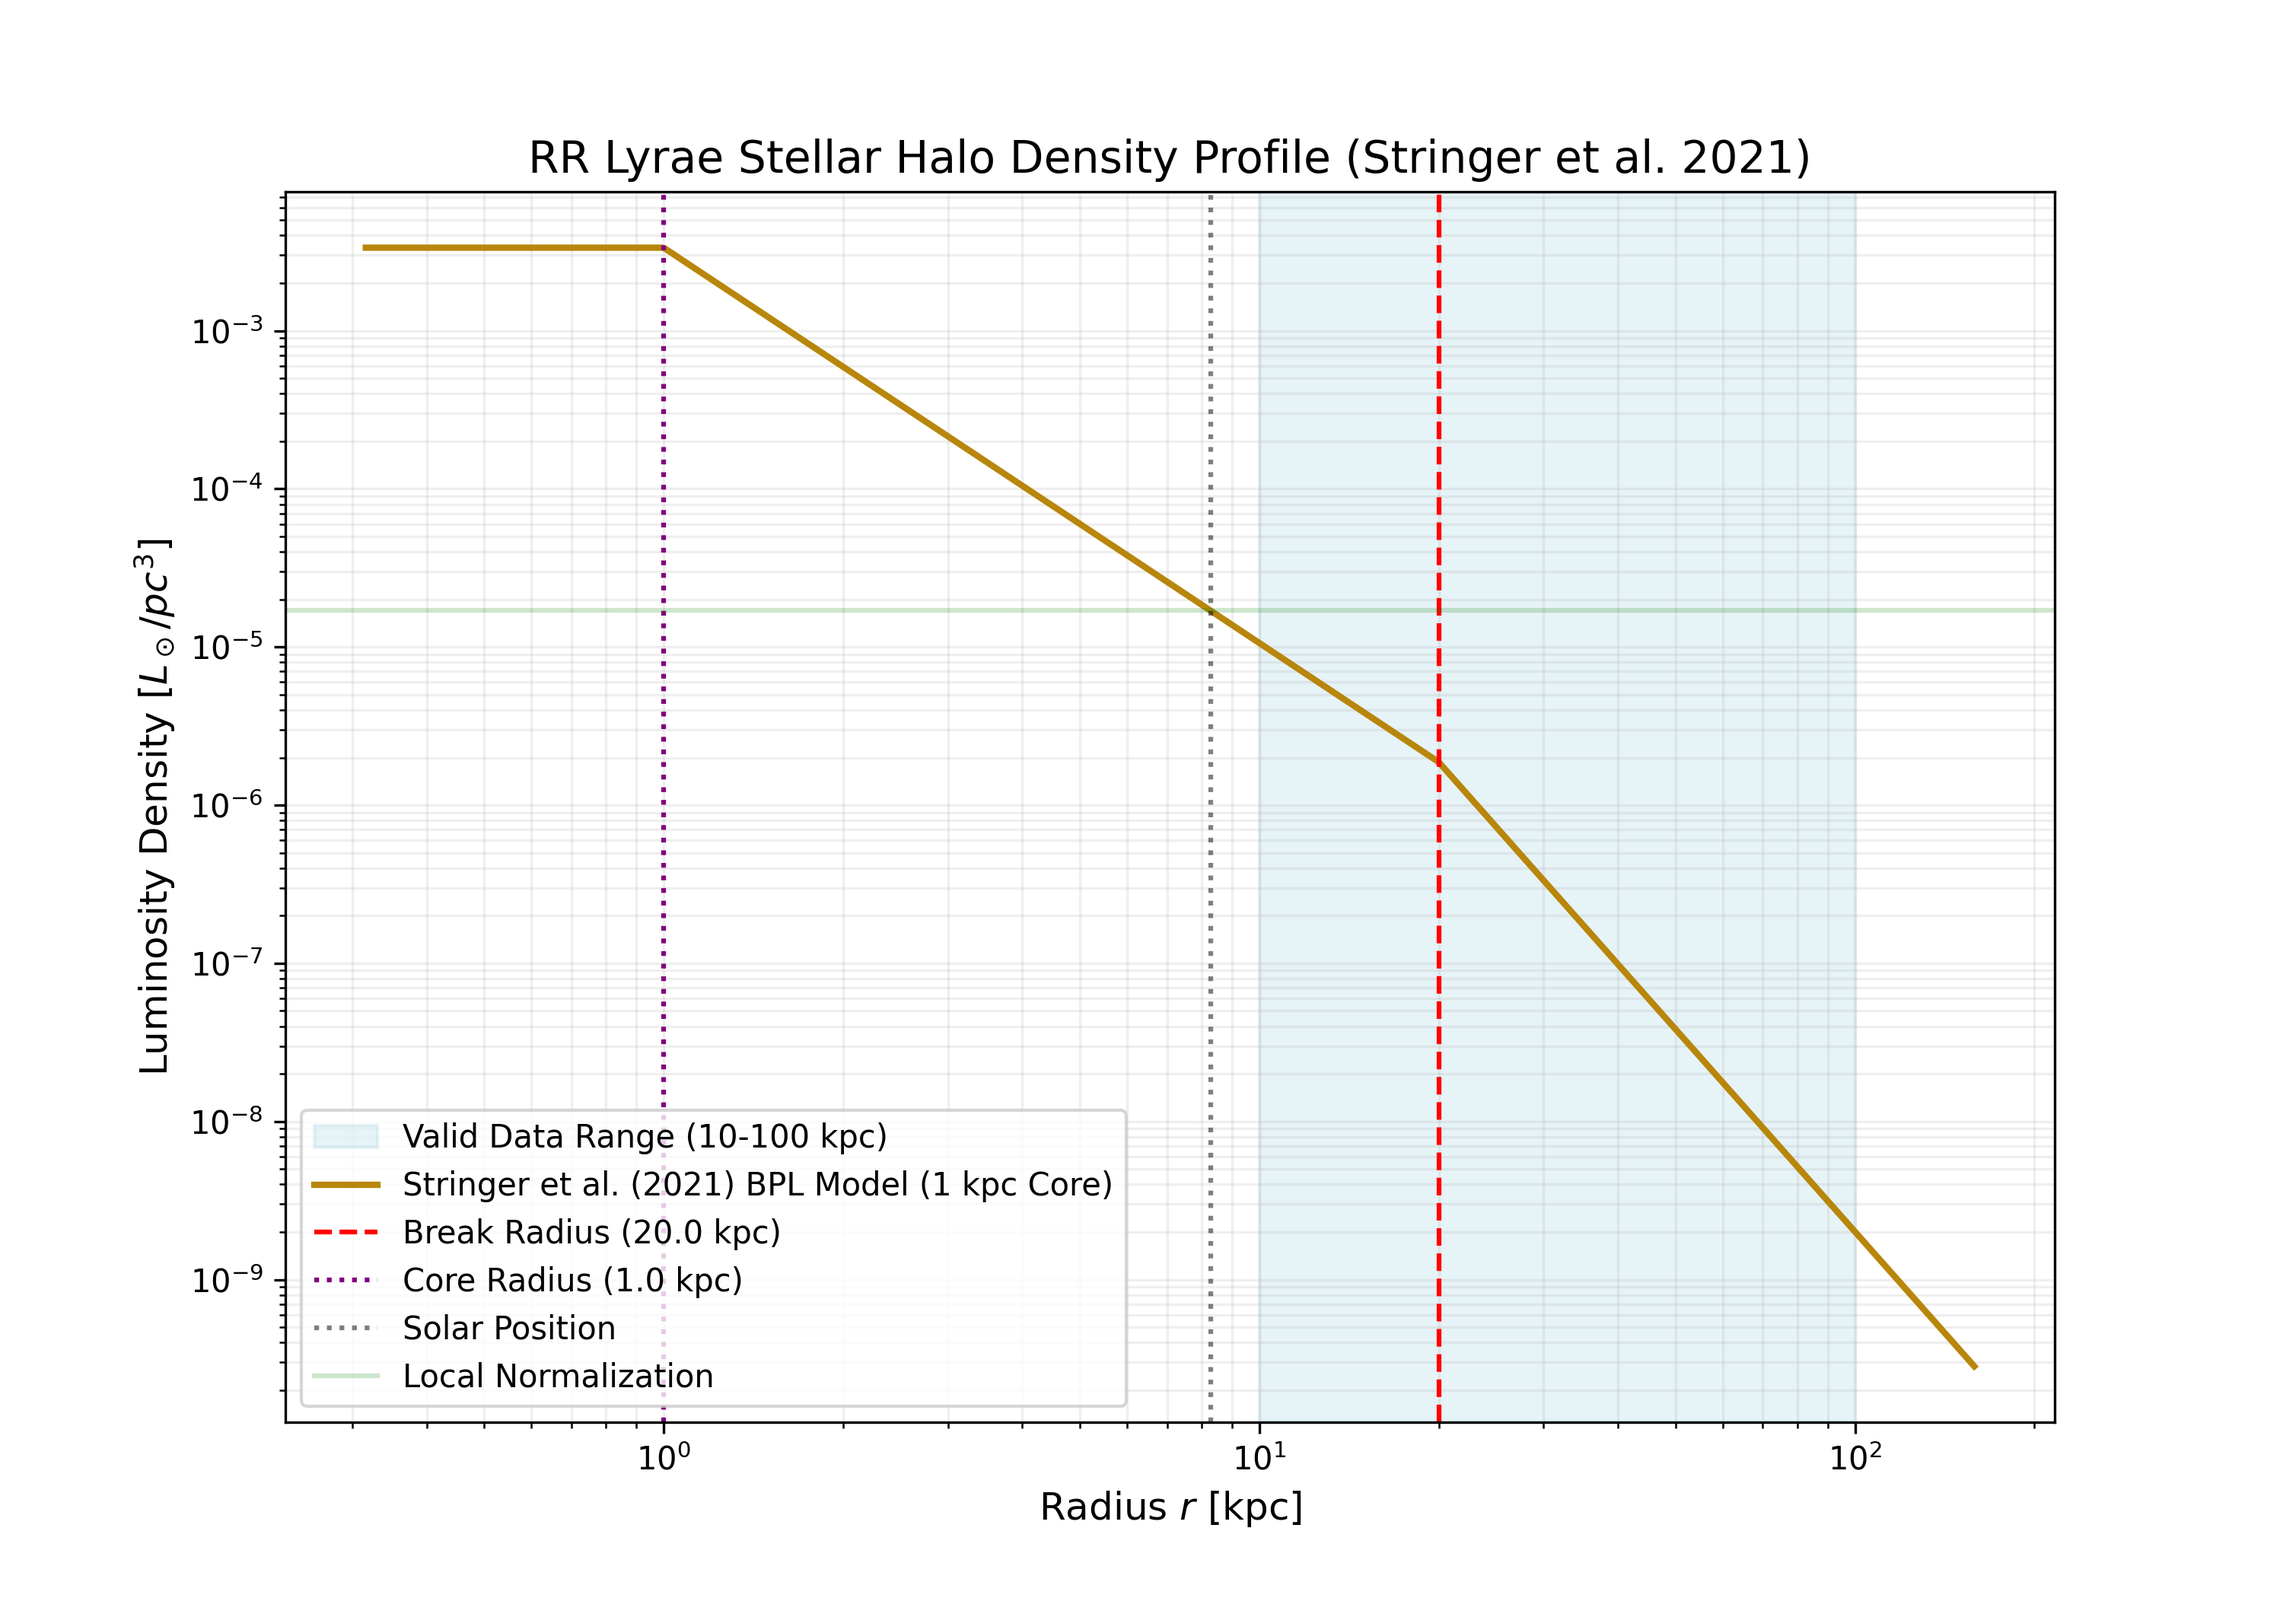
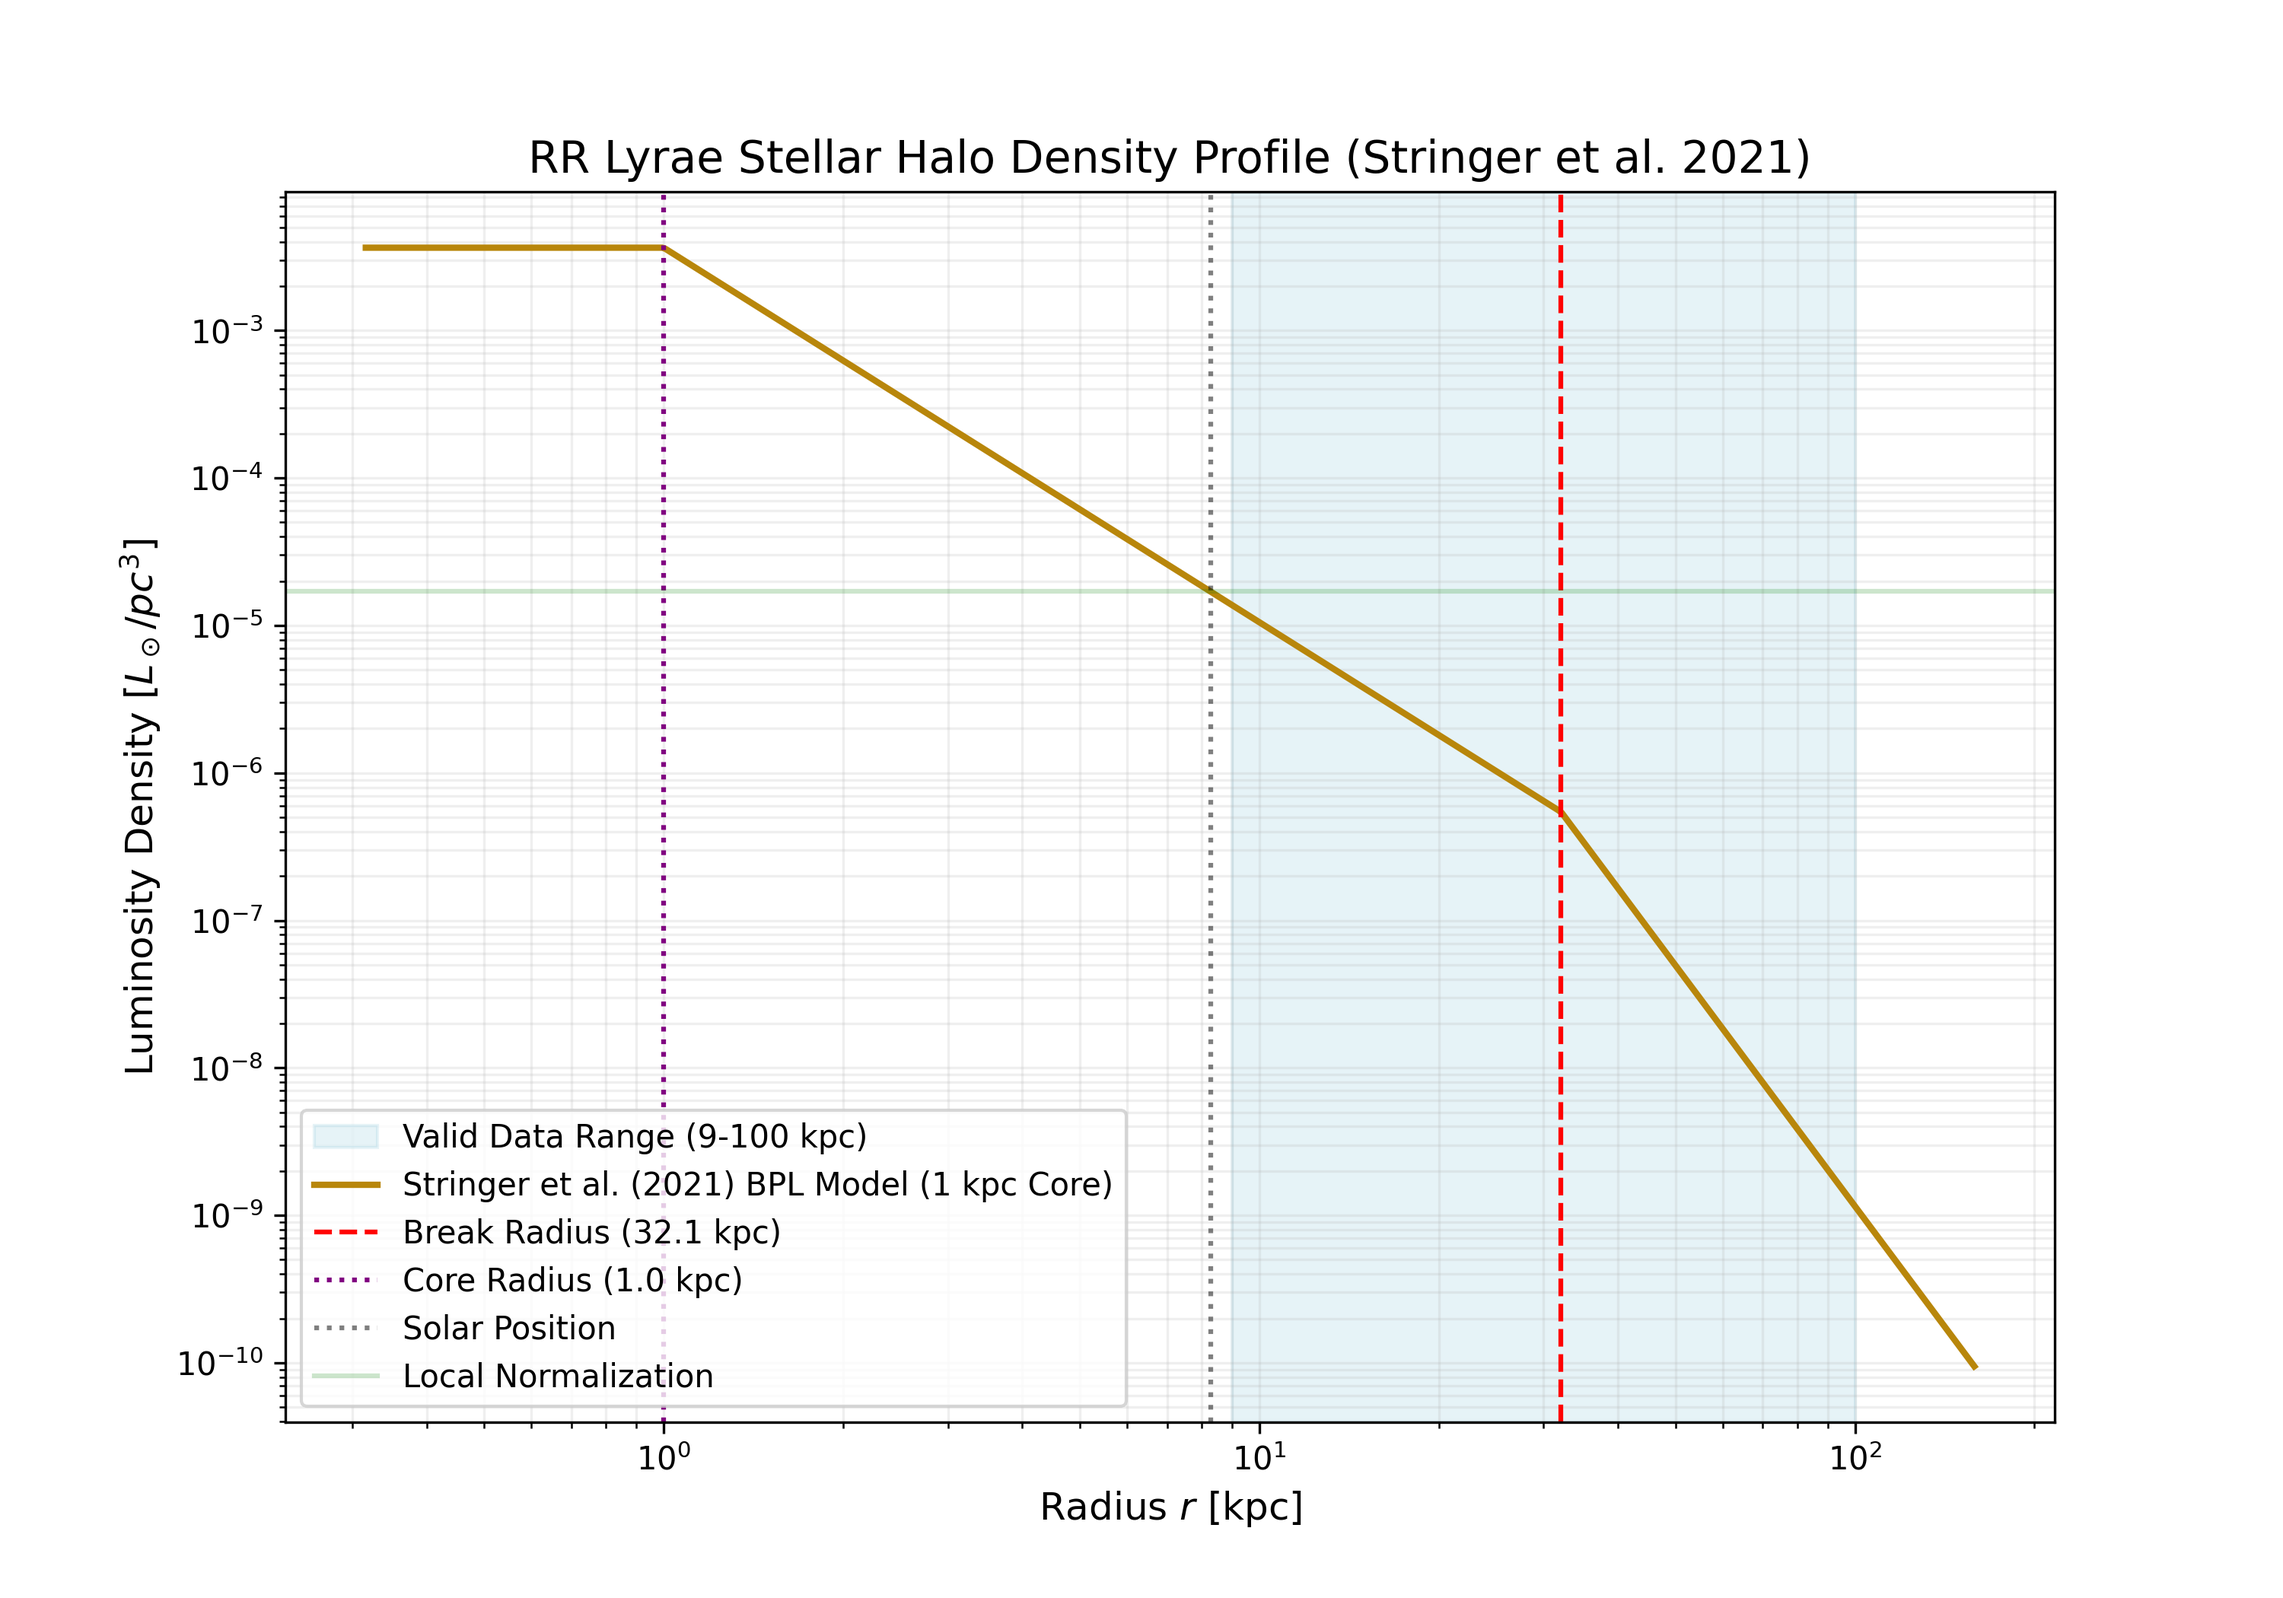
Add files via upload
MAJOR update to three model sets, two of which have been removed, one fixed.

diff --git a/assets/ye2023_density_model.py b/assets/ye2023_density_model.py
@@ -4,11 +4,11 @@ import matplotlib.pyplot as plt
 def calculate_ye2023_halo():
     # Parameters from Ye et al. (2023) - MNRAS 525, 2472
     # Model: Broken Power Law (Gaia DR3 RR Lyrae)
-    alpha_in = 2.44
-    alpha_out = 4.41
-    r_break = 26.5
+    alpha_in = 2.34
+    alpha_out = 2.86
+    r_break = 22.99
     r_core = 1.0   # 1 kpc constant density core (project requirement)
-    q = 0.73       # Constant flattening
+    q = 0.81       # Constant flattening
     R_sun = 8.275 
 
     # User local norm
@@ -34,6 +34,7 @@ def calculate_ye2023_halo():
     # Analytical Integration for Luminosity
     # L = 4 * pi * q * Integral[ rho(r) * r^2 dr ]
     
+    # Numerical Integration for Luminosity (integrated to 500 kpc)
     def integrand(r):
         return profile(r) * r**2
     
@@ -56,7 +57,7 @@ def calculate_ye2023_halo():
     rho_vals = np.array([rho_0 * profile(r) for r in r_vals])
 
     plt.figure(figsize=(10, 7))
-    plt.axvspan(6, 120, color='lightblue', alpha=0.3, label='Valid Data Range (6-120 kpc)')
+    plt.axvspan(6, 26, color='lightblue', alpha=0.3, label='Valid Data Range (6-26 kpc)')
     plt.loglog(r_vals, rho_vals / (1000**3), color='forestgreen', linewidth=2, label='Ye et al. (2023) RR Lyrae Model (1 kpc Core)')
     
     # Markers

diff --git a/assets/stringer2021_density_model.py b/assets/stringer2021_density_model.py
@@ -4,9 +4,9 @@ import matplotlib.pyplot as plt
 def calculate_stringer2021_halo():
     # Parameters from Stringer et al. (2021) - ApJ 911, 109
     # Model: Broken Power Law (RR Lyrae stars)
-    alpha_in = 2.5
-    alpha_out = 4.25 # Typical outer slope found
-    r_break = 20.0
+    alpha_in = 2.54
+    alpha_out = 5.42 
+    r_break = 32.1
     r_core = 1.0     # 1 kpc constant density core (project requirement)
     q = 0.7          # Standard oblate flattening used
     R_sun = 8.275 
@@ -55,7 +55,7 @@ def calculate_stringer2021_halo():
     rho_vals = np.array([rho_0 * profile(r) for r in r_vals])
 
     plt.figure(figsize=(10, 7))
-    plt.axvspan(10, 100, color='lightblue', alpha=0.3, label='Valid Data Range (10-100 kpc)')
+    plt.axvspan(9, 100, color='lightblue', alpha=0.3, label='Valid Data Range (9-100 kpc)')
     plt.loglog(r_vals, rho_vals / (1000**3), color='darkgoldenrod', linewidth=2, label='Stringer et al. (2021) BPL Model (1 kpc Core)')
     
     # Markers
